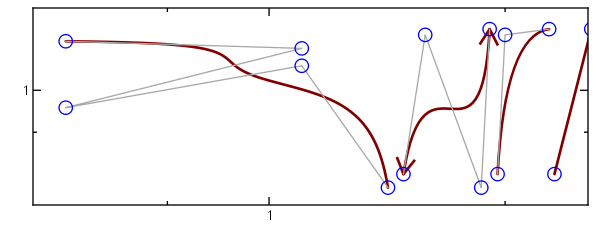
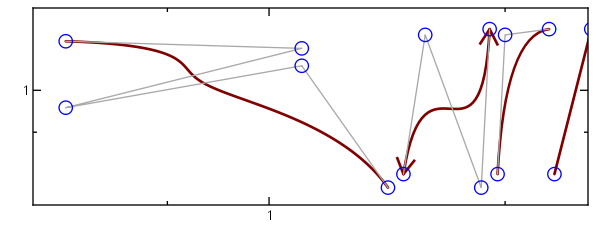
FIXed drawing of quartic bezier curves in DrawAsGeometricElement

diff --git a/lib/jkqtplotter/graphs/jkqtpgeolines.cpp b/lib/jkqtplotter/graphs/jkqtpgeolines.cpp
@@ -444,7 +444,7 @@ void JKQTPGeoInfiniteLine::draw(JKQTPEnhancedPainter& painter) {
 
 
             addHitTestData(x, y, formatHitTestDefaultLabel(x,y)+
-                                     QString(", \\ensuremath{\\mathrm{\\mathbf{d}}y/\\mathrm{\\mathbf{d}}x\\;=\\;%1/%2\\;=\\;%3\\;=\\;%4\\degree}").arg(jkqtp_floattolatexqstr(dy, 3)).arg(jkqtp_floattolatexqstr(dx, 3)).arg(jkqtp_floattolatexqstr(dy/dx, 3)).arg(jkqtp_floattolatexqstr(atan2(dy,dx), 1)));
+                                     QString(", \\ensuremath{\\mathrm{\\mathbf{d}}y/\\mathrm{\\mathbf{d}}x\\;=\\;%1/%2\\;=\\;%3\\;=\\;%4\\degree}").arg(yFloatToString(dy)).arg(xFloatToString(dx)).arg(jkqtp_floattolatexqstr(dy/dx, 3)).arg(jkqtp_floattolatexqstr(atan2(dy,dx), 1)));
             addHitTestData(x1, y1);
             addHitTestData(x2, y2);
         }
@@ -587,7 +587,7 @@ void JKQTPGeoPolyLines::draw(JKQTPEnhancedPainter& painter) {
     if (points.size()>=2) {
         reserveHitTestData(points.size());
 
-        double angle1, angle2;
+        double angle1=0, angle2=0;
         QPointF xx1, xx2;
         bool doDrawDecorator=false;
         painter.save(); auto __finalpaint=JKQTPFinally([&painter]() {painter.restore();});
@@ -934,7 +934,7 @@ void JKQTPGeoBezierCurve::draw(JKQTPEnhancedPainter& painter) {
     if (points.size()>=2) {
         reserveHitTestData(points.size());
 
-        double angle1, angle2;
+        double angle1=0, angle2=0;
         QPointF xx1, xx2;
         bool doDrawDecorator=false;
         painter.save(); auto __finalpaint=JKQTPFinally([&painter]() {painter.restore();});
@@ -972,18 +972,29 @@ void JKQTPGeoBezierCurve::draw(JKQTPEnhancedPainter& painter) {
                 const auto B4_2=jkqtp_makeBernstein<double>(4,2);
                 const auto B4_3=jkqtp_makeBernstein<double>(4,3);
                 const auto B4_4=jkqtp_makeBernstein<double>(4,4);
-                if (points.size()==2) plotfunc=[&](double t) -> QPointF { return points[0]+t*(points[1]-points[0]); };
-                else if (points.size()==3) plotfunc=[&](double t) -> QPointF { return points[0]*B2_0(t)+points[1]*B2_1(t)+points[2]*B2_2(t); };
-                else if (points.size()==4) plotfunc=[&](double t) -> QPointF { return points[0]*B3_0(t)+points[1]*B3_1(t)+points[2]*B3_2(t)+points[3]*B3_3(t); };
-                else if (points.size()==5) plotfunc=[&](double t) -> QPointF { return points[0]*B4_0(t)+points[1]*B4_1(t)+points[2]*B4_2(t)+points[3]*B4_3(t)+points[4]*B4_4(t); };
+                QVector<QPointF> pointsT=points;
+                if (getDrawMode()==DrawAsMathematicalCurve) {
+                    if (points.size()==2) plotfunc=[&](double t) -> QPointF { return points[0]+t*(points[1]-points[0]); };
+                    else if (points.size()==3) plotfunc=[&](double t) -> QPointF { return points[0]*B2_0(t)+points[1]*B2_1(t)+points[2]*B2_2(t); };
+                    else if (points.size()==4) plotfunc=[&](double t) -> QPointF { return points[0]*B3_0(t)+points[1]*B3_1(t)+points[2]*B3_2(t)+points[3]*B3_3(t); };
+                    else if (points.size()==5) plotfunc=[&](double t) -> QPointF { return points[0]*B4_0(t)+points[1]*B4_1(t)+points[2]*B4_2(t)+points[3]*B4_3(t)+points[4]*B4_4(t); };
+                } else {
+                    for (auto& p: pointsT) p=transform(p);
+                    if (pointsT.size()==2) plotfunc=[&](double t) -> QPointF { return pointsT[0]+t*(pointsT[1]-pointsT[0]); };
+                    else if (pointsT.size()==3) plotfunc=[&](double t) -> QPointF { return pointsT[0]*B2_0(t)+pointsT[1]*B2_1(t)+pointsT[2]*B2_2(t); };
+                    else if (pointsT.size()==4) plotfunc=[&](double t) -> QPointF { return pointsT[0]*B3_0(t)+pointsT[1]*B3_1(t)+pointsT[2]*B3_2(t)+pointsT[3]*B3_3(t); };
+                    else if (pointsT.size()==5) plotfunc=[&](double t) -> QPointF { return pointsT[0]*B4_0(t)+pointsT[1]*B4_1(t)+pointsT[2]*B4_2(t)+pointsT[3]*B4_3(t)+pointsT[4]*B4_4(t); };
+                }
 
                 if (plotfunc) {
-                    std::function<QPointF(double)> fTransformedFunc= std::bind([plotfunc](const JKQTPPlotElement* plot, double t) -> QPointF { return plot->transform(plotfunc(t)); }, this, std::placeholders::_1);
+                    std::function<QPointF(double)> fTransformedFunc;
                     const int minSamples=10;
                     const int maxRefinementDegree=5;
                     const double slopeTolerance=0.005;
                     const int minPixelPerSample=32;
                     const double maxConsecutiveAngleDegree=0.2;
+                    if (getDrawMode()==DrawAsMathematicalCurve) fTransformedFunc = std::bind([plotfunc](const JKQTPPlotElement* plot, double t) -> QPointF { return plot->transform(plotfunc(t)); }, this, std::placeholders::_1);
+                    else fTransformedFunc = plotfunc;
                     JKQTPAdaptiveFunctionGraphEvaluator evaluator(fTransformedFunc, minSamples, maxRefinementDegree, slopeTolerance, minPixelPerSample);
                     QVector<QPointF> data=evaluator.evaluate(0,1);
                     data=JKQTPSimplyfyLineSegemnts(data, maxConsecutiveAngleDegree);
